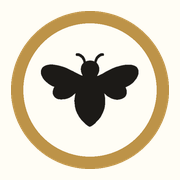
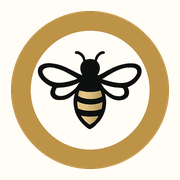
The bee stays a bee, and a summary fits the HIVE it belongs to
THE ICON WAS A BAT. Filling the bee's outline in gave it mass at 16 pixels and
cost it the thing that made it a bee — Nat, looking at her sidebar: "that's
really dark, that's not our logo, that looks like a bat."

So the drawn bee stays drawn, wings and stripes and all, and the mass comes
from the ring instead: a solid gold coin with a cream face. A circle is legible
at any size and is the brand's own shape; the bee inside is what makes it ours.
Checked at 16, 20 and 32.

NO TREASURER WITHOUT A HONEY POT. Production said no to one at its first
meeting and the summary still opened with "Honey Pot balance: $0.00".
`honey_pot_enabled` has existed since migration 140; this section simply never
asked. Nat: "you can get rid of the treasurer in the summary because we're not
going to have a treasurer or a honey pot for right now."

AND THE NEXT MEETING LINE SAYS WHERE. "Next HIVE meeting: Thursday, September
10" does not tell somebody catching up where to go, and Production moved to
Charlee's house at the very meeting that line summarises.

Changed region(s): [[0.1111, 0.1111, 0.8889, 0.8889]]

diff --git a/hive-app/supabase/functions/seal-meeting/index.ts b/hive-app/supabase/functions/seal-meeting/index.ts
@@ -263,7 +263,7 @@ serve(async (req) => {
     // working on, stuck on, and focused on. They're what makes a recap readable
     // to someone who wasn't there, rather than a list of clicks.
     const [notesRow, ledgerRows, memberRows, wishRows] = await Promise.all([
-      supabaseAdmin.from('communities').select('meeting_helper_notes, name').eq('id', communityId).maybeSingle(),
+      supabaseAdmin.from('communities').select('meeting_helper_notes, name, honey_pot_enabled').eq('id', communityId).maybeSingle(),
       supabaseAdmin.from('honey_pot_transactions').select('amount').eq('community_id', communityId),
       supabaseAdmin.from('community_memberships').select('user:profiles!user_id(id, name)').eq('community_id', communityId),
       supabaseAdmin.from('wishes')
@@ -295,7 +295,10 @@ serve(async (req) => {
 
     const [nextMeetingRows, upcomingRows, focusRows] = await Promise.all([
       supabaseAdmin.from('events')
-        .select('title, event_date, event_time')
+        // The address comes along. "Next HIVE meeting: Thursday, September 10"
+        // does not tell somebody catching up where to go, and Production moved
+        // to Charlee's house at the meeting that line is summarising.
+        .select('title, event_date, event_time, location')
         .eq('community_id', communityId).eq('event_type', 'meeting')
         .gt('event_date', date).order('event_date', { ascending: true }).limit(1),
       supabaseAdmin.from('events')
@@ -461,10 +464,18 @@ serve(async (req) => {
     const appLines = bulletsFrom(deckNotes.appnews);
     if (appLines.length > 0) sections.push({ title: 'App updates', lines: appLines });
 
-    sections.push({
-      title: 'Treasurer',
-      lines: [`Honey Pot balance: $${potBalance.toFixed(2)}`],
-    });
+    // Only a HIVE that runs a Honey Pot has a treasurer to report. Production
+    // said no to one at its first meeting and its summary still opened with
+    // "Honey Pot balance: $0.00" — Nat, 2026-08-19: *"you can get rid of the
+    // treasurer in the summary because we're not going to have a treasurer or
+    // a honey pot for right now."* The flag already exists (migration 140);
+    // this section simply never asked.
+    if ((notesRow.data as any)?.honey_pot_enabled) {
+      sections.push({
+        title: 'Treasurer',
+        lines: [`Honey Pot balance: $${potBalance.toFixed(2)}`],
+      });
+    }
 
     // The deck's Plan-the-Meet-Ups slide, in the same order: when we meet next,
     // what the HIVE Help focus is, and what's already on the calendar.
@@ -484,7 +495,12 @@ serve(async (req) => {
     };
     const meetupLines: string[] = [];
     if (nextMeeting) {
-      meetupLines.push(`Next HIVE meeting: ${prettyDate(nextMeeting.event_date)}${nextMeeting.event_time ? ` · ${prettyTime(nextMeeting.event_time)}` : ''}`);
+      const where = (nextMeeting as { location?: string | null }).location?.trim();
+      meetupLines.push(
+        `Next HIVE meeting: ${prettyDate(nextMeeting.event_date)}`
+        + `${nextMeeting.event_time ? ` · ${prettyTime(nextMeeting.event_time)}` : ''}`
+        + `${where ? ` · ${where}` : ''}`
+      );
     }
     if (helpFocus) meetupLines.push(`HIVE Help focus: ${helpFocus}`);
     if (upcomingHangs.length > 0) {

diff --git a/hive-app/lib/appNews.ts b/hive-app/lib/appNews.ts
@@ -28,6 +28,14 @@ export type AppNewsEntry = {
 
 export const APP_NEWS: AppNewsEntry[] = [
   {
+    id: '2026-08-19-summary-fits-the-hive',
+    date: '2026-08-19',
+    title: 'A summary only mentions a treasurer if your HIVE has one',
+    detail: 'Production said no to a Honey Pot and its summary still opened with a balance of $0.00. And the next meeting line carries the address now, so catching up tells you where to go as well as when.',
+    href: { pathname: '/meetings' },
+    action: 'Open Meeting Summaries',
+  },
+  {
     id: '2026-08-19-summary-reads-like-english',
     date: '2026-08-19',
     title: 'A meeting summary reads like a summary again',
@@ -39,7 +47,7 @@ export const APP_NEWS: AppNewsEntry[] = [
     id: '2026-08-19-hive-has-an-icon',
     date: '2026-08-19',
     title: 'HIVE has its own icon on your home screen',
-    detail: 'Adding HIVE to a phone or desktop used to give you a grey placeholder. It is the bee in the gold ring now, and the browser tab matches.',
+    detail: 'Adding HIVE to a phone or desktop used to give you a grey placeholder. It is the bee on a gold coin now, and the browser tab matches.',
   },
   {
     id: '2026-08-19-everyone-takes-a-job',
